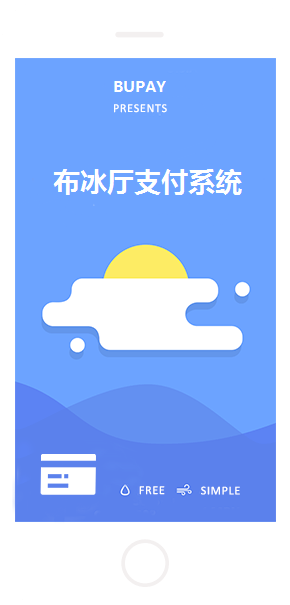
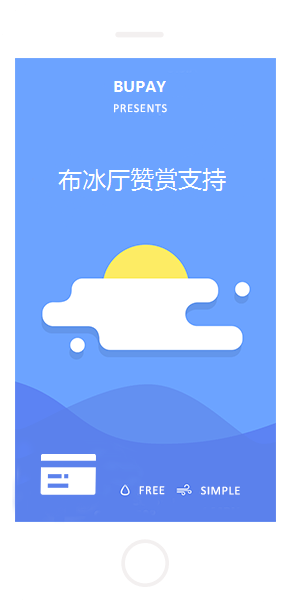
赞赏支持
赞赏支持

Changed region(s): [[0.1862, 0.2678, 0.8379, 0.3273]]

diff --git a/src/main/resources/templates/index.html b/src/main/resources/templates/index.html
@@ -71,7 +71,7 @@
                         <ul class="nav navbar-nav navbar-center">
                             <li><a href="http://www.bubbt.com">布冰厅首页</a></li>
                             <li><a href="http://bupay.bubbt.com">布赞赏首页</a></li>
-                            <li><a href="pay">赞赏下单</a></li>
+                            <li><a href="pay">赞赏支持</a></li>
                             <li><a href="thanks">赞赏名单</a></li>
                         </ul>
                     </div><!-- /.navbar-collapse -->
@@ -124,7 +124,7 @@
                         <div class="main_features p-top-100">
                             <div class="col-md-8 col-md-offset-2 col-sm-12 col-xs-12">
                                 <div class="head_title text-center">
-                                    <h2>自动化解决方案</h2>
+                                    <h2>自动化赞赏方案</h2>
                                     <h5>布冰厅赞赏系统</h5>
                                 </div>
                             </div>
@@ -136,7 +136,7 @@
                                     </div>
                                     <div class="f_item_text">
                                         <h3>完全免费</h3>
-                                        <p>布冰厅自动化收付款系统。 
+                                        <p>布冰厅自动化赞赏系统。 
                                            不再忍受第三方抽取手续费。</p>
                                     </div>
                                 </div>
@@ -209,7 +209,7 @@
                                 <div class="col-md-6">
                                     <div class="screen01_img text-center">
                                         <div class="attr_cloudy text-white">通知方式</div>
-                                        <div class="attr_deg2 text-white">确认订单</div>
+                                        <div class="attr_deg2 text-white">确认支持</div>
                                         <img src="http://oweupqzdv.bkt.clouddn.com/screen01.png" alt="" />
                                         <h1 class="cloudy">Order</h1>
                                     </div>
@@ -219,8 +219,8 @@
                                         <div class="screen01_content_img ">
                                             <img src="assets/images/order.png" width="80" alt="" />
                                         </div>
-                                        <h2 class="m-top-40">填写确认订单</h2>
-                                        <p class="m-top-20">用户确认购买订单后，需填写邮箱或手机号，发送邮件或短信赞赏结果通知，
+                                        <h2 class="m-top-40">填写确认支持</h2>
+                                        <p class="m-top-20">用户确认支持后，需填写邮箱或手机号，发送邮件或短信赞赏结果通知，
                                             以便及时告知用户赞赏结果 
                                         </p>
 
@@ -324,7 +324,7 @@
                                         <ul class="nav navbar-nav navbar-center">
                                             <li><a href="http://www.bubbt.com">布冰厅首页</a></li>
                                             <li><a href="http://bupay.bubbt.com">布赞赏首页</a></li>
-                                            <li><a href="pay">赞赏下单</a></li>
+                                            <li><a href="pay">赞赏支持</a></li>
                                             <li><a href="thanks">赞赏名单</a></li>
                                         </ul>
                                     </div><!-- /.navbar-collapse -->

diff --git a/src/main/resources/templates/order.html b/src/main/resources/templates/order.html
@@ -5,7 +5,7 @@
 <!--[if gt IE 8]><!--> <html class="no-js" lang="en" xmlns:th="http://www.thymeleaf.org"> <!--<![endif]-->
     <head>
         <meta charset="utf-8">
-        <title>赞赏下单 - bupay - 布赞赏 布冰厅赞赏系统</title>
+        <title>赞赏支持 - bupay - 布赞赏 布冰厅赞赏系统</title>
         <meta name="description" content="bupay布冰厅赞赏系统 布赞赏 无需签约 无需第三方SDK 完全免费">
         <meta name="viewport" content="width=device-width, initial-scale=1">
         <link rel="icon" type="image/png" href="assets/images/favicon.ico">
@@ -79,7 +79,7 @@
                         <ul class="nav navbar-nav navbar-center">
                             <li><a href="http://www.bubbt.com">布冰厅首页</a></li>
                             <li><a href="http://bupay.bubbt.com">布赞赏首页</a></li>
-                            <li><a href="pay">赞赏下单</a></li>
+                            <li><a href="pay">赞赏支持</a></li>
                             <li><a href="thanks">赞赏名单</a></li>
                         </ul>
                     </div><!-- /.navbar-collapse -->
@@ -100,7 +100,7 @@
                                 <div>
                                     <div class="order-info">
                                         <h4 align="center">提交订单后请认真填写赞赏信息，避免审核失败而导致损失</h4>
-                                        <p class="payment-detail" style="color:red">由于订单需人工确认，建议下单时间为：09:00 - 22:00 </p>
+                                        <p class="payment-detail" style="color:red">由于订单需人工确认，建议支持时间为：09:00 - 22:00 </p>
                                         
                                         <div class="pay-info">
                                             <div class="form-group">
@@ -113,7 +113,7 @@
                                                 <label for="money-choose" class="control-label col-sm-2">赞赏金额<span class="red-txt"> *</span></label>
                                                 <div class="col-sm-10">
                                                     <select class="form-control m-bot15" id="money-choose" name="money-choose">
-                                                        <option value="custom" selected>下单赞赏</option>
+                                                        <option value="custom" selected>支持赞赏</option>
                                                     </select>                                                
                                                 </div>
                                             </div>
@@ -207,7 +207,7 @@
                                         <ul class="nav navbar-nav navbar-center">
                                             <li><a href="http://www.bubbt.com">布冰厅首页</a></li>
                                             <li><a href="http://bupay.bubbt.com">布赞赏首页</a></li>
-                                            <li><a href="pay">赞赏下单</a></li>
+                                            <li><a href="pay">赞赏支持</a></li>
                                             <li><a href="thanks">赞赏名单</a></li>
                                         </ul>
                                     </div><!-- /.navbar-collapse -->

diff --git a/src/main/resources/templates/info.html b/src/main/resources/templates/info.html
@@ -78,7 +78,7 @@
                         <ul class="nav navbar-nav navbar-center">
                             <li><a href="http://www.bubbt.com">布冰厅首页</a></li>
                             <li><a href="http://bupay.bubbt.com">布赞赏首页</a></li>
-                            <li><a href="pay">赞赏下单</a></li>
+                            <li><a href="pay">赞赏支持</a></li>
                             <li><a href="thanks">赞赏名单</a></li>
                         </ul>
                     </div><!-- /.navbar-collapse -->
@@ -143,7 +143,7 @@ QQ：907208251 <br />
                                         <ul class="nav navbar-nav navbar-center">
                                             <li><a href="http://www.bubbt.com">布冰厅首页</a></li>
                                             <li><a href="http://bupay.bubbt.com">布赞赏首页</a></li>
-                                            <li><a href="pay">赞赏下单</a></li>
+                                            <li><a href="pay">赞赏支持</a></li>
                                             <li><a href="thanks">赞赏名单</a></li>
                                         </ul>
                                     </div><!-- /.navbar-collapse -->

diff --git a/src/main/resources/templates/confirm.html b/src/main/resources/templates/confirm.html
@@ -69,7 +69,7 @@
                         <ul class="nav navbar-nav navbar-center">
                             <li><a href="http://www.bubbt.com">布冰厅首页</a></li>
                             <li><a href="http://bupay.bubbt.com">布赞赏首页</a></li>
-                            <li><a href="pay">赞赏下单</a></li>
+                            <li><a href="pay">赞赏支持</a></li>
                             <li><a href="thanks">赞赏名单</a></li>
                         </ul>
                     </div><!-- /.navbar-collapse -->
@@ -122,7 +122,7 @@
                                         <ul class="nav navbar-nav navbar-center">
                                             <li><a href="http://www.bubbt.com">布冰厅首页</a></li>
                                             <li><a href="http://bupay.bubbt.com">布赞赏首页</a></li>
-                                            <li><a href="pay">赞赏下单</a></li>
+                                            <li><a href="pay">赞赏支持</a></li>
                                             <li><a href="thanks">赞赏名单</a></li>
                                          </ul>
                                     </div><!-- /.navbar-collapse -->

diff --git a/src/main/resources/templates/pay.html b/src/main/resources/templates/pay.html
@@ -79,7 +79,7 @@
                         <ul class="nav navbar-nav navbar-center">
                             <li><a href="http://www.bubbt.com">布冰厅首页</a></li>
                             <li><a href="http://bupay.bubbt.com">布赞赏首页</a></li>
-                            <li><a href="pay">赞赏下单</a></li>
+                            <li><a href="pay">赞赏支持</a></li>
                             <li><a href="thanks">赞赏名单</a></li>
                         </ul>
                     </div><!-- /.navbar-collapse -->
@@ -195,7 +195,7 @@
                                         <ul class="nav navbar-nav navbar-center">
                                             <li><a href="http://www.bubbt.com">布冰厅首页</a></li>
                                             <li><a href="http://bupay.bubbt.com">布赞赏首页</a></li>
-                                            <li><a href="pay">赞赏下单</a></li>
+                                            <li><a href="pay">赞赏支持</a></li>
                                             <li><a href="thanks">赞赏名单</a></li>
                                         </ul>
                                     </div><!-- /.navbar-collapse -->

diff --git a/src/main/resources/templates/qqpay.html b/src/main/resources/templates/qqpay.html
@@ -80,7 +80,7 @@
                         <ul class="nav navbar-nav navbar-center">
                             <li><a href="http://www.bubbt.com">布冰厅首页</a></li>
                             <li><a href="http://bupay.bubbt.com">布赞赏首页</a></li>
-                            <li><a href="pay">赞赏下单</a></li>
+                            <li><a href="pay">赞赏支持</a></li>
                             <li><a href="thanks">赞赏名单</a></li>
                         </ul>
                     </div><!-- /.navbar-collapse -->
@@ -156,7 +156,7 @@
                                         <ul class="nav navbar-nav navbar-center">
                                             <li><a href="http://www.bubbt.com">布冰厅首页</a></li>
                                             <li><a href="http://bupay.bubbt.com">布赞赏首页</a></li>
-                                            <li><a href="pay">赞赏下单</a></li>
+                                            <li><a href="pay">赞赏支持</a></li>
                                             <li><a href="thanks">赞赏名单</a></li>
                                         </ul>
                                     </div><!-- /.navbar-collapse -->

diff --git a/src/main/resources/templates/thanks.html b/src/main/resources/templates/thanks.html
@@ -74,7 +74,7 @@
                         <ul class="nav navbar-nav navbar-center">
                             <li><a href="http://www.bubbt.com">布冰厅首页</a></li>
                             <li><a href="http://bupay.bubbt.com">布赞赏首页</a></li>
-                            <li><a href="pay">赞赏下单</a></li>
+                            <li><a href="pay">赞赏支持</a></li>
                             <li><a href="thanks">赞赏名单</a></li>
                         </ul>
                     </div><!-- /.navbar-collapse -->
@@ -218,7 +218,7 @@
                                         <ul class="nav navbar-nav navbar-center">
                                             <li><a href="http://www.bubbt.com">布冰厅首页</a></li>
                                             <li><a href="http://bupay.bubbt.com">布赞赏首页</a></li>
-                                            <li><a href="pay">赞赏下单</a></li>
+                                            <li><a href="pay">赞赏支持</a></li>
                                             <li><a href="thanks">赞赏名单</a></li>
                                         </ul>
                                     </div><!-- /.navbar-collapse -->

diff --git a/src/main/resources/templates/wechat.html b/src/main/resources/templates/wechat.html
@@ -80,7 +80,7 @@
                         <ul class="nav navbar-nav navbar-center">
                             <li><a href="http://www.bubbt.com">布冰厅首页</a></li>
                             <li><a href="http://bupay.bubbt.com">布赞赏首页</a></li>
-                            <li><a href="pay">赞赏下单</a></li>
+                            <li><a href="pay">赞赏支持</a></li>
                             <li><a href="thanks">赞赏名单</a></li>
                         </ul>
                     </div><!-- /.navbar-collapse -->
@@ -152,7 +152,7 @@
                                         <ul class="nav navbar-nav navbar-center">
                                             <li><a href="http://www.bubbt.com">布冰厅首页</a></li>
                                             <li><a href="http://bupay.bubbt.com">布赞赏首页</a></li>
-                                            <li><a href="pay">赞赏下单</a></li>
+                                            <li><a href="pay">赞赏支持</a></li>
                                             <li><a href="thanks">赞赏名单</a></li>
                                         </ul>
                                     </div><!-- /.navbar-collapse -->

diff --git a/src/main/resources/templates/alipay.html b/src/main/resources/templates/alipay.html
@@ -88,7 +88,7 @@
                 <ul class="nav navbar-nav navbar-center">
                             <li><a href="http://www.bubbt.com">布冰厅首页</a></li>
                             <li><a href="http://bupay.bubbt.com">布赞赏首页</a></li>
-                            <li><a href="pay">赞赏下单</a></li>
+                            <li><a href="pay">赞赏支持</a></li>
                             <li><a href="thanks">赞赏名单</a></li>
                 </ul>
             </div><!-- /.navbar-collapse -->
@@ -178,7 +178,7 @@
                                 <ul class="nav navbar-nav navbar-center">
                                             <li><a href="http://www.bubbt.com">布冰厅首页</a></li>
                                             <li><a href="http://bupay.bubbt.com">布赞赏首页</a></li>
-                                            <li><a href="pay">赞赏下单</a></li>
+                                            <li><a href="pay">赞赏支持</a></li>
                                             <li><a href="thanks">赞赏名单</a></li>
                                         </ul>
                             </div><!-- /.navbar-collapse -->

diff --git a/src/main/java/cn/exrick/controller/PayController.java b/src/main/java/cn/exrick/controller/PayController.java
@@ -217,7 +217,7 @@ public class PayController {
     }
     
     @RequestMapping(value = "/order",method = RequestMethod.GET)
-    @ApiOperation(value = "赞赏下单")
+    @ApiOperation(value = "赞赏支持")
     public Result<Object> order(@RequestParam(required = true) String orderId,
                         @RequestParam(required = true) String price,
                         Model model){
